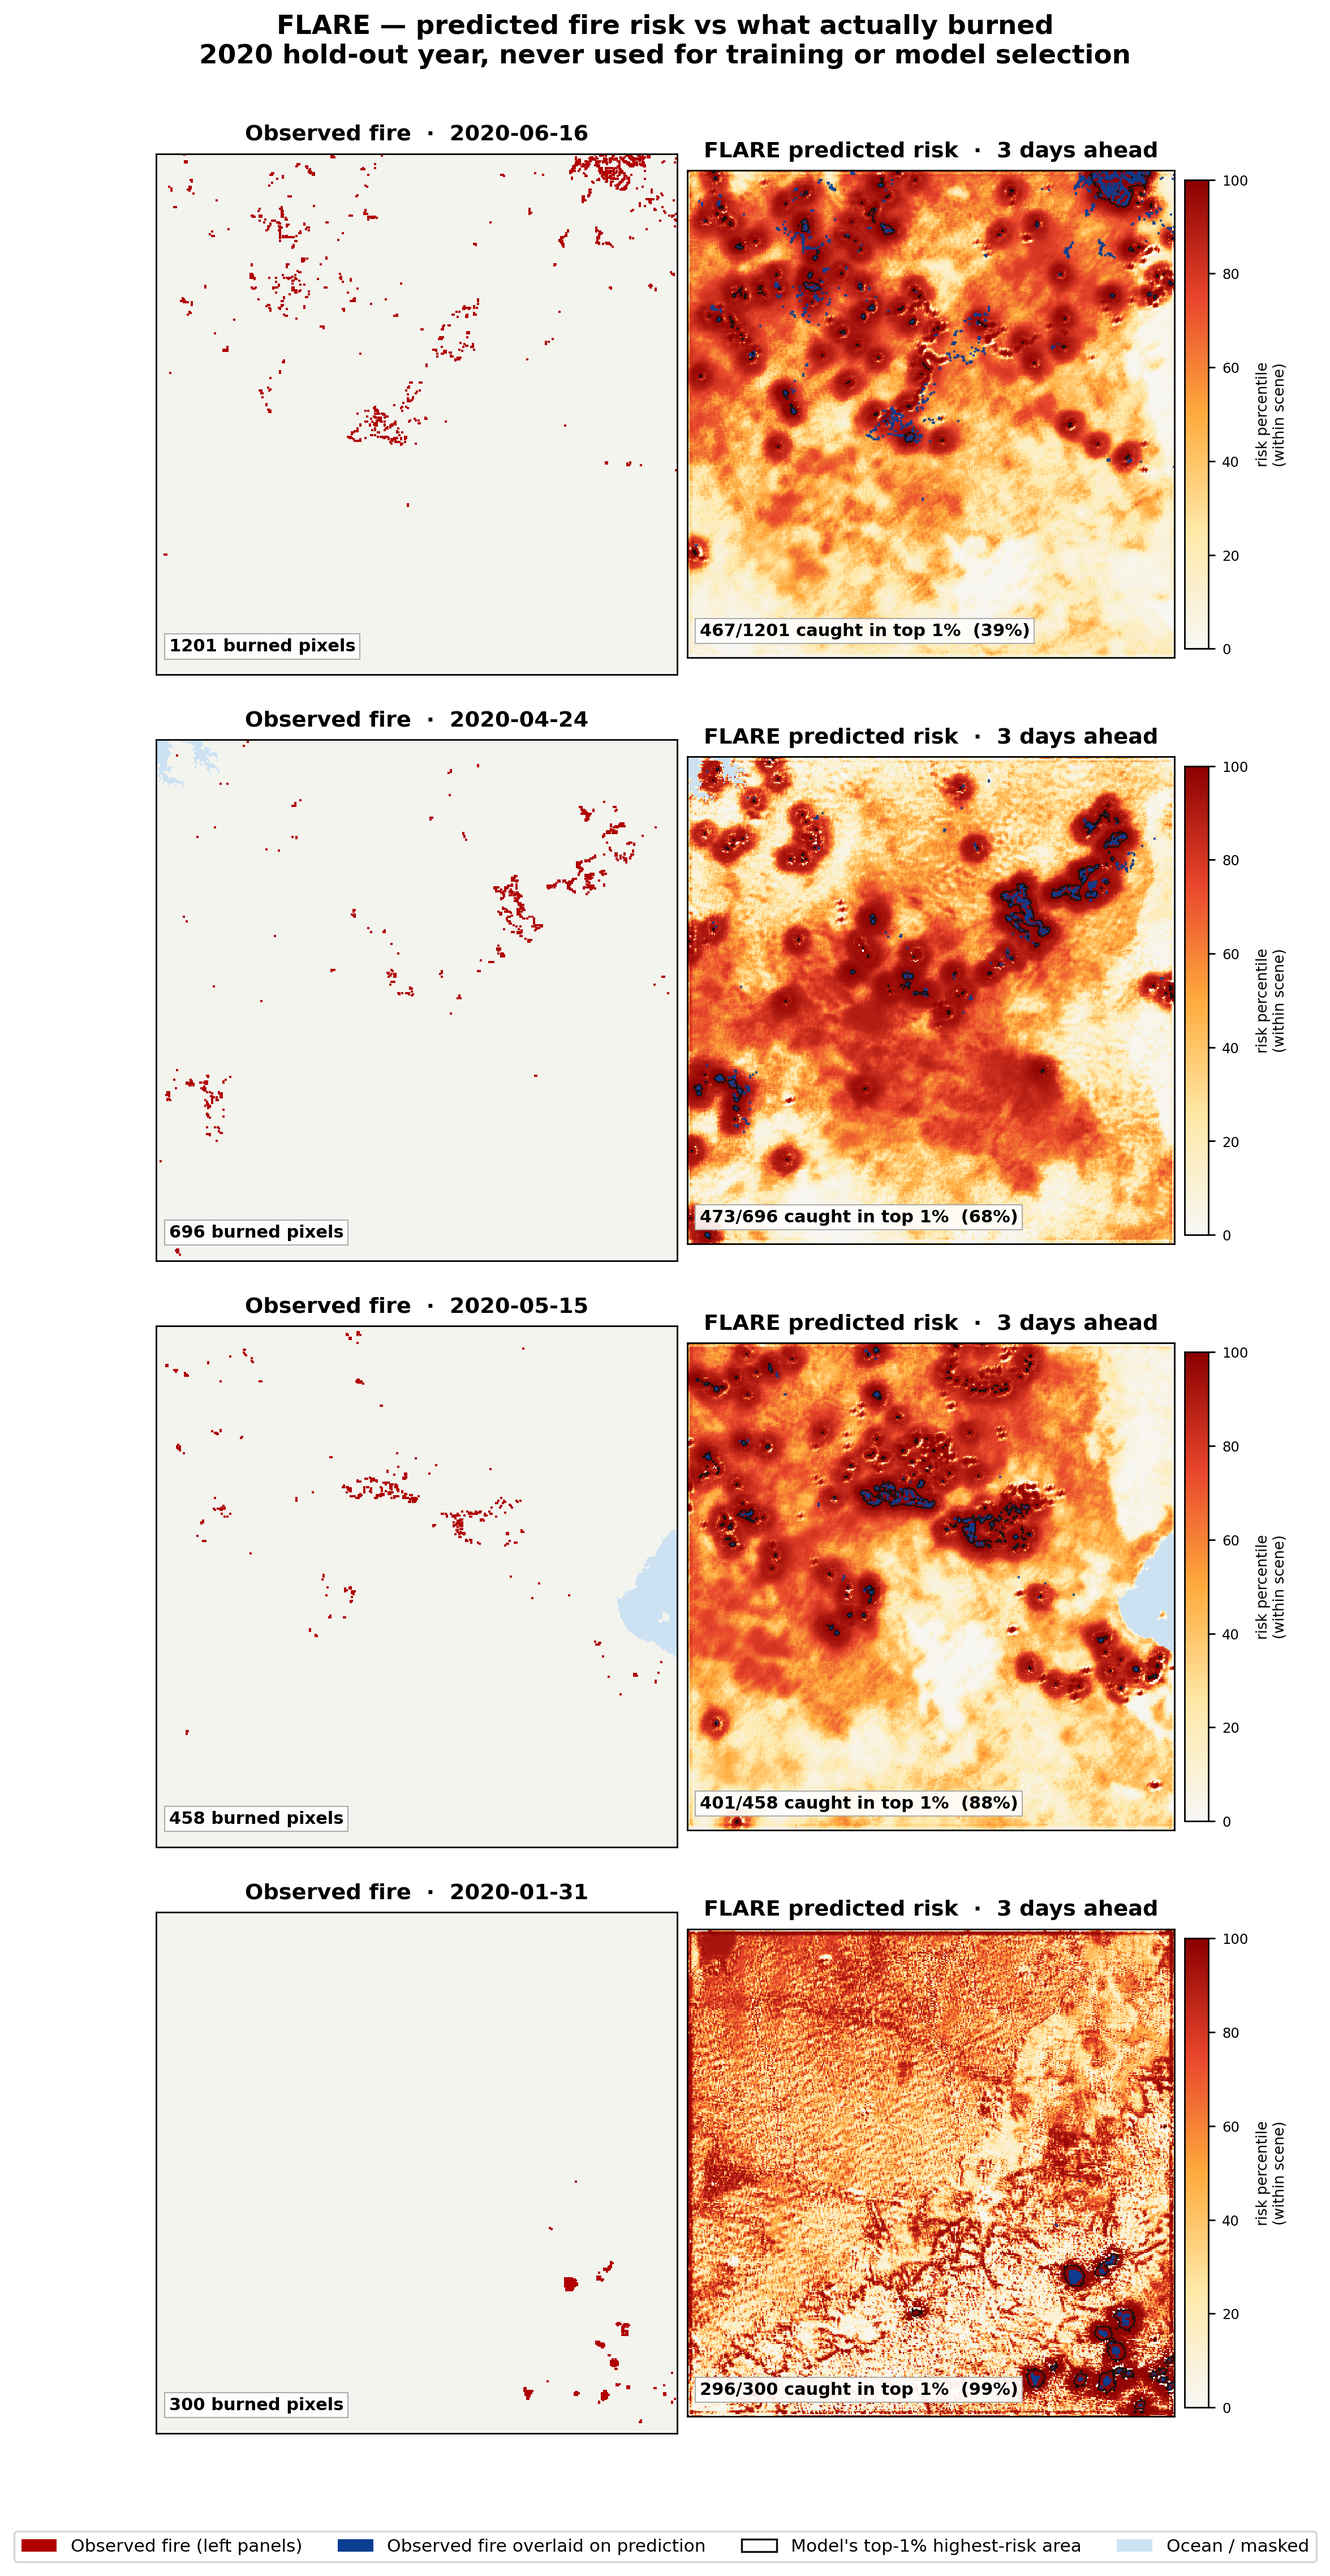
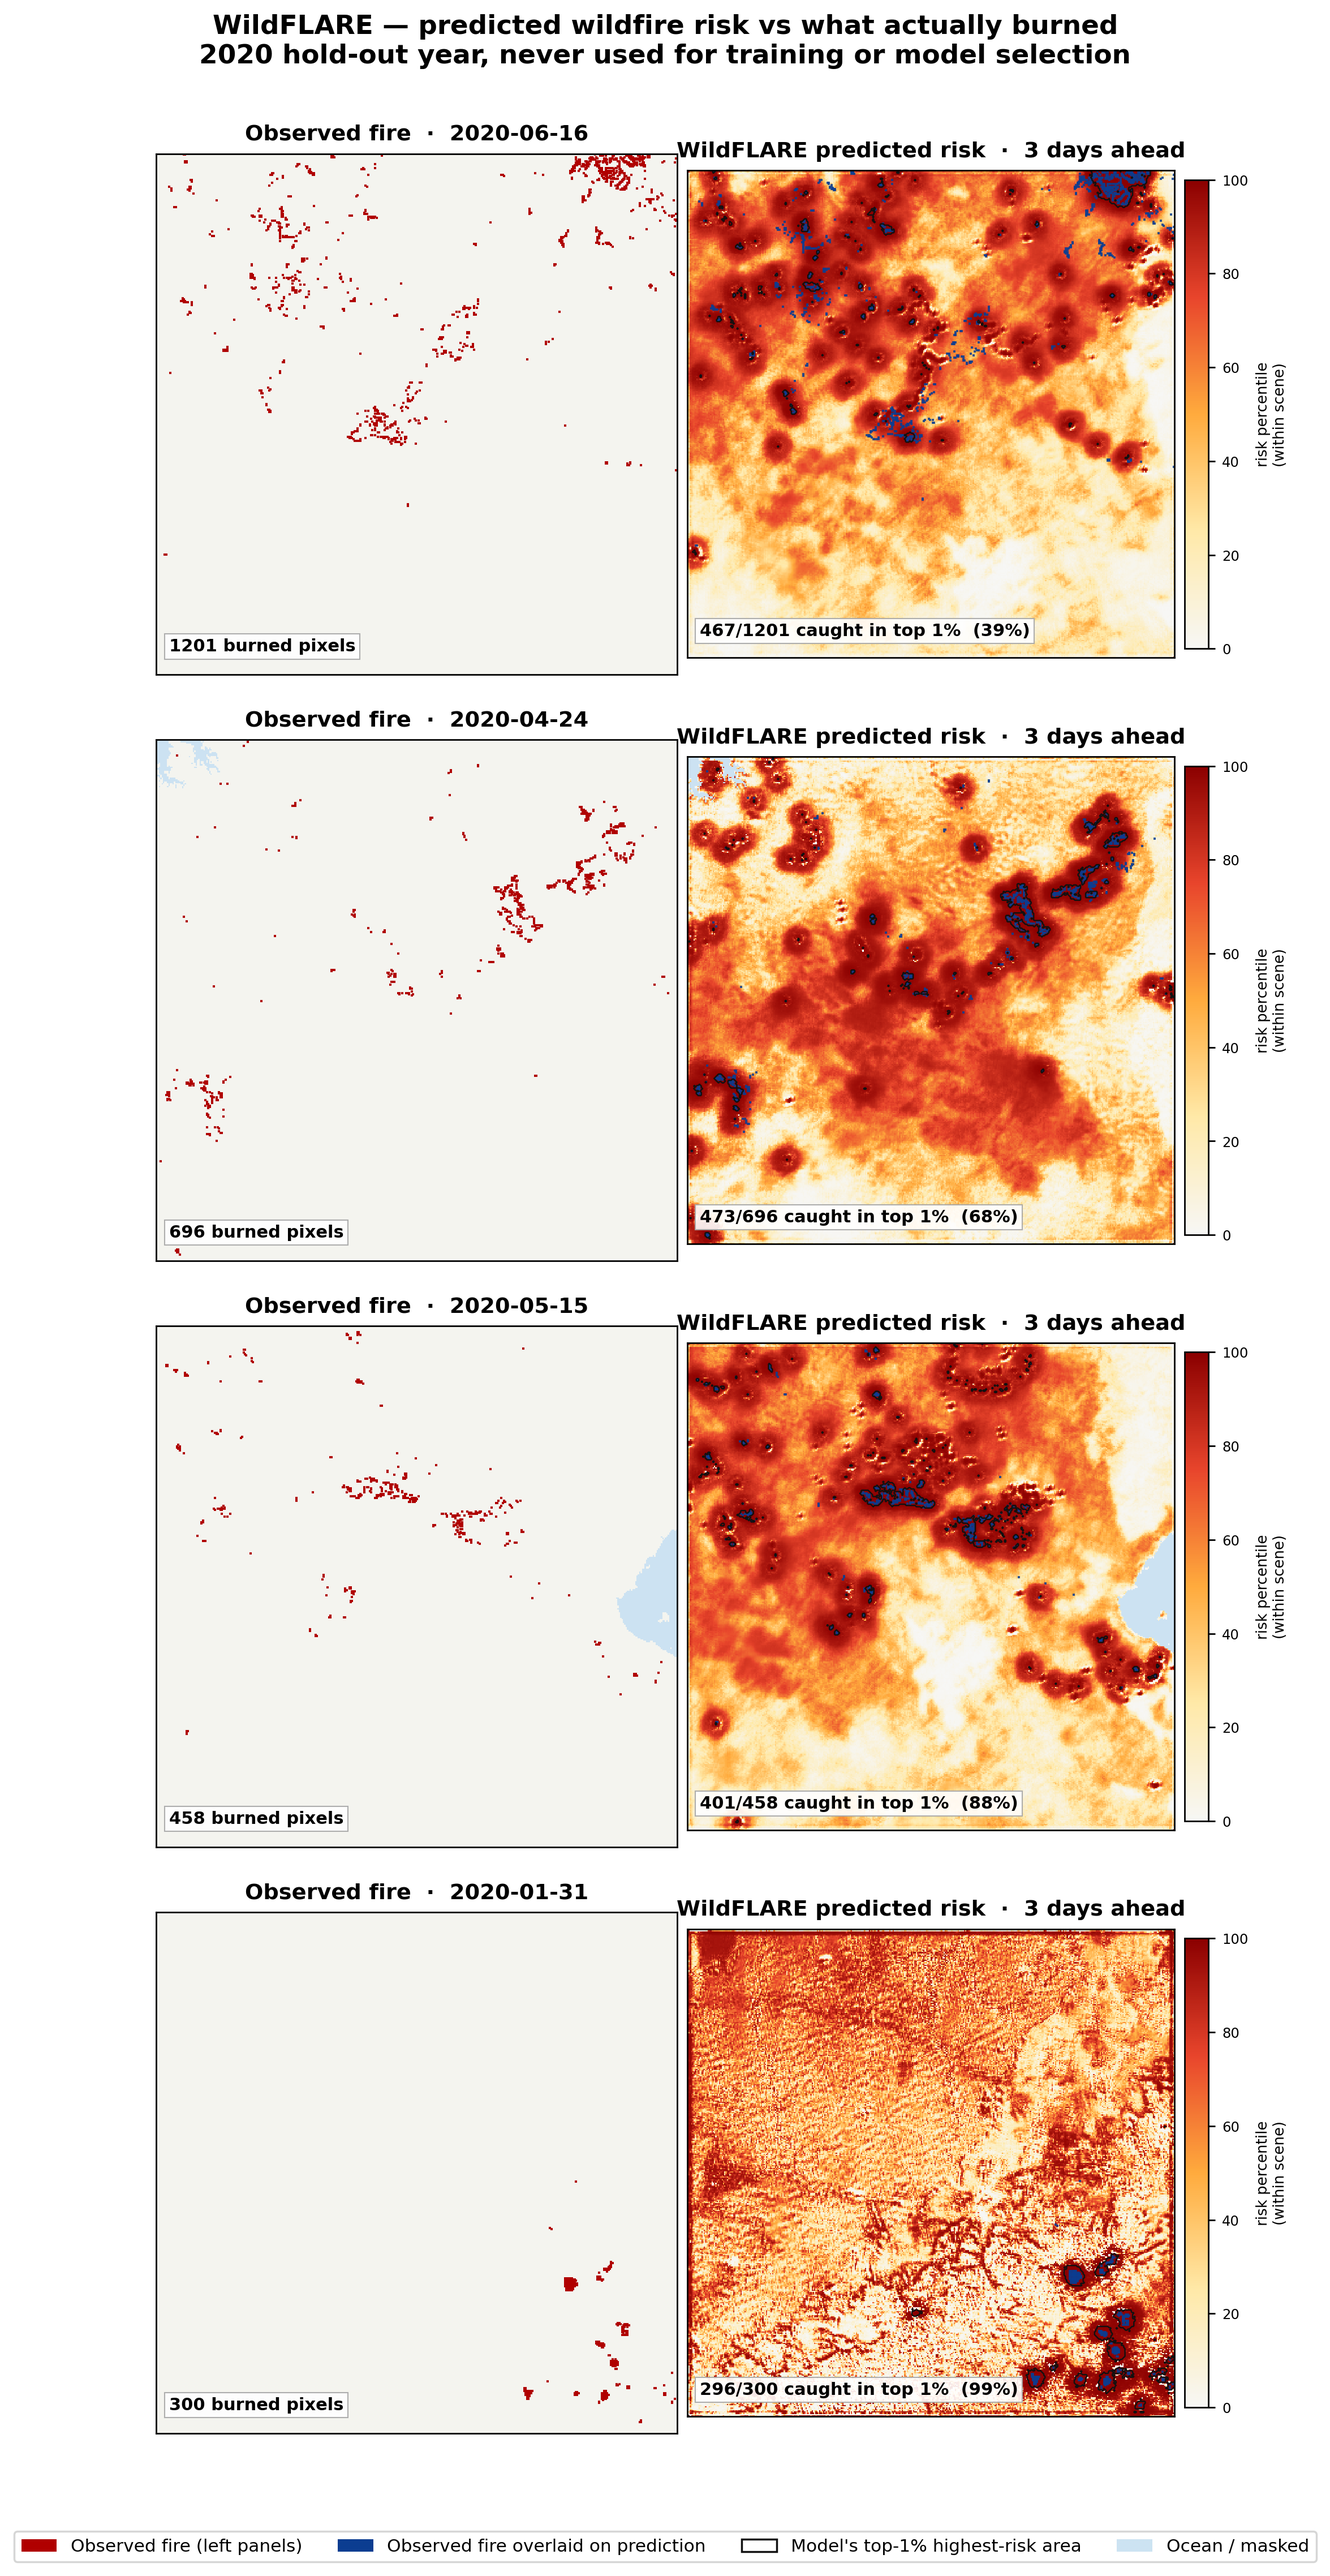
Rename FLARE -> WildFLARE so the domain is in the name
WildFLARE = Wildfire Fast-slow Latent Attention for Risk Estimation.
'FLARE' alone read as generic; the model's domain now appears in the name
itself while the acronym still maps to the architecture.

diff --git a/figures/make_gt_vs_pred.py b/figures/make_gt_vs_pred.py
@@ -1,4 +1,4 @@
-"""Ground truth vs FLARE prediction for four 2020 test-year dates.
+"""Ground truth vs WildFLARE prediction for four 2020 test-year dates.
 
 One row per date: what actually burned, next to what the model predicted the
 day before. Both panels share the same patch, extent and colour conventions so
@@ -105,7 +105,7 @@ def main():
                 yy, xx = np.where(truth)
                 ax.scatter(ext[0] + (xx+0.5)*PX, ext[3] - (yy+0.5)*PX, s=1.4,
                            c="#0b3d91", marker="s", linewidths=0, alpha=0.85)
-                ax.set_title("FLARE predicted risk  ·  3 days ahead", fontsize=11,
+                ax.set_title("WildFLARE predicted risk  ·  3 days ahead", fontsize=11,
                              fontweight="bold", pad=7)
                 ax.text(0.025, 0.045,
                         f"{caught}/{nfire} caught in top 1%  ({100*caught/max(nfire,1):.0f}%)",
@@ -123,7 +123,7 @@ def main():
                Patch(facecolor=(0.80, 0.89, 0.95), label="Ocean / masked")]
     fig.legend(handles=handles, loc="lower center", ncol=4, fontsize=9,
                frameon=True, bbox_to_anchor=(0.5, 0.004))
-    fig.suptitle("FLARE — predicted fire risk vs what actually burned\n"
+    fig.suptitle("WildFLARE — predicted wildfire risk vs what actually burned\n"
                  "2020 hold-out year, never used for training or model selection",
                  fontsize=13.5, fontweight="bold", y=0.997)
     fig.subplots_adjust(bottom=0.055, top=0.945, hspace=0.10, wspace=0.02)

diff --git a/figures/make_wildflare_architecture.py b/figures/make_wildflare_architecture.py
@@ -1,4 +1,4 @@
-"""Clean, self-explanatory architecture overview for FLARE.
+"""Clean, self-explanatory architecture overview for WildFLARE.
 
 Design goal: a reader who has never seen this project should understand the
 whole idea in about ten seconds -- two input streams at different timescales,
@@ -108,9 +108,9 @@ ax.text(13.0, 2.06, "continental Australia · 3474 × 4110 grid", fontsize=8.6,
         color="#666", ha="center")
 
 ax.text(7.6, -0.62,
-        "FLARE — Fast-slow Latent Attention for Risk Estimation.  The two branches are read at "
+        "WildFLARE — Wildfire Fast-slow Latent Attention for Risk Estimation.  The two branches are read at "
         "different rates because fuel dries over months while fire weather turns over hours.",
         fontsize=9.3, color="#444", ha="center", style="italic")
 
-fig.savefig("fig_flare_architecture.png", dpi=300, bbox_inches="tight", facecolor="white")
-print("wrote figures/fig_flare_architecture.png")
+fig.savefig("fig_wildflare_architecture.png", dpi=300, bbox_inches="tight", facecolor="white")
+print("wrote figures/fig_wildflare_architecture.png")

diff --git a/README.md b/README.md
@@ -1,19 +1,20 @@
-# FLARE
+# WildFLARE
 
-**F**ast-slow **L**atent **A**ttention for **R**isk **E**stimation — per-pixel
-**next-3-day wildfire risk** for continental Australia at ~1 km resolution.
+**Wild**fire **F**ast-slow **L**atent **A**ttention for **R**isk **E**stimation —
+per-pixel **next-3-day wildfire risk** for continental Australia at ~1 km
+resolution.
 
-FLARE reads two input streams at different speeds, because the two things that
+WildFLARE reads two input streams at different speeds, because the two things that
 cause a fire evolve at different speeds: **fuel** dries out over months, while
 **fire weather** turns over in hours. A ConvLSTM encodes each stream, and
 cross-attention lets today's weather ask which part of the fuel signal matters.
 
-![architecture](figures/fig_flare_architecture.png)
+![architecture](figures/fig_wildflare_architecture.png)
 
 ## Predictions vs reality
 
 Four dates from the 2020 hold-out year — left, what actually burned; right,
-what FLARE predicted three days earlier. The black outline is the model's
+what WildFLARE predicted three days earlier. The black outline is the model's
 top-1 % highest-risk area.
 
 ![ground truth vs predicted](figures/fig_gt_vs_pred_2020.png)
@@ -44,9 +45,9 @@ headline a "new-fire lift" figure*.
 | + new-fire sampling + fire-history dropout | 0.4368 | 0.8955 |
 | + weight averaging (SWA) | 0.4429 | 0.9011 |
 | + extended training | 0.4459 | 0.8959 |
-| **FLARE (final: SWA)** | **0.4485** | 0.8983 |
+| **WildFLARE (final: SWA)** | **0.4485** | 0.8983 |
 
-FLARE improves on the baseline by **+6.0 % AUC-PR** and outperforms a strong
+WildFLARE improves on the baseline by **+6.0 % AUC-PR** and outperforms a strong
 XGBoost baseline by roughly **7x**.
 
 ![progression](figures/fig_model_progression.png)
@@ -174,7 +175,7 @@ sub-pixel fuel continuity - none of which are in the current predictor set.
 
 ## Architecture
 
-FLARE's backbone (`ConvLSTMSegDual`) is two independent ConvLSTM encoders fused by per-pixel
+WildFLARE's backbone (`ConvLSTMSegDual`) is two independent ConvLSTM encoders fused by per-pixel
 cross-attention (query = fast branch, key/value = slow branch):
 
 - **Slow branch** - LAI, soil moisture, precipitation over **144 days** in
@@ -209,7 +210,7 @@ docs/            full development log
 ```bash
 pip install -r requirements.txt
 
-# Evaluate FLARE on the 2020 test year
+# Evaluate WildFLARE on the 2020 test year
 CKPT=checkpoints/firecastnet_best_swa.ckpt PATCH=384 EVAL_YEAR=2020 N_PATCH=1500 \
   python firecastnet/evaluation/operational_stats_dual.py
 
@@ -273,11 +274,11 @@ the land mask before any distance transform or metric computation.
 ## Citation
 
 ```bibtex
-@software{flare_australia,
-  title  = {FLARE: Fast-slow Latent Attention for Risk Estimation --
-            next-3-day wildfire risk forecasting over Australia},
+@software{wildflare_australia,
+  title  = {WildFLARE: Wildfire Fast-slow Latent Attention for Risk
+            Estimation over Australia},
   year   = {2026},
-  url    = {https://github.com/catKorb/flare-wildfire-australia}
+  url    = {https://github.com/catKorb/wildflare-australia}
 }
 ```
 
